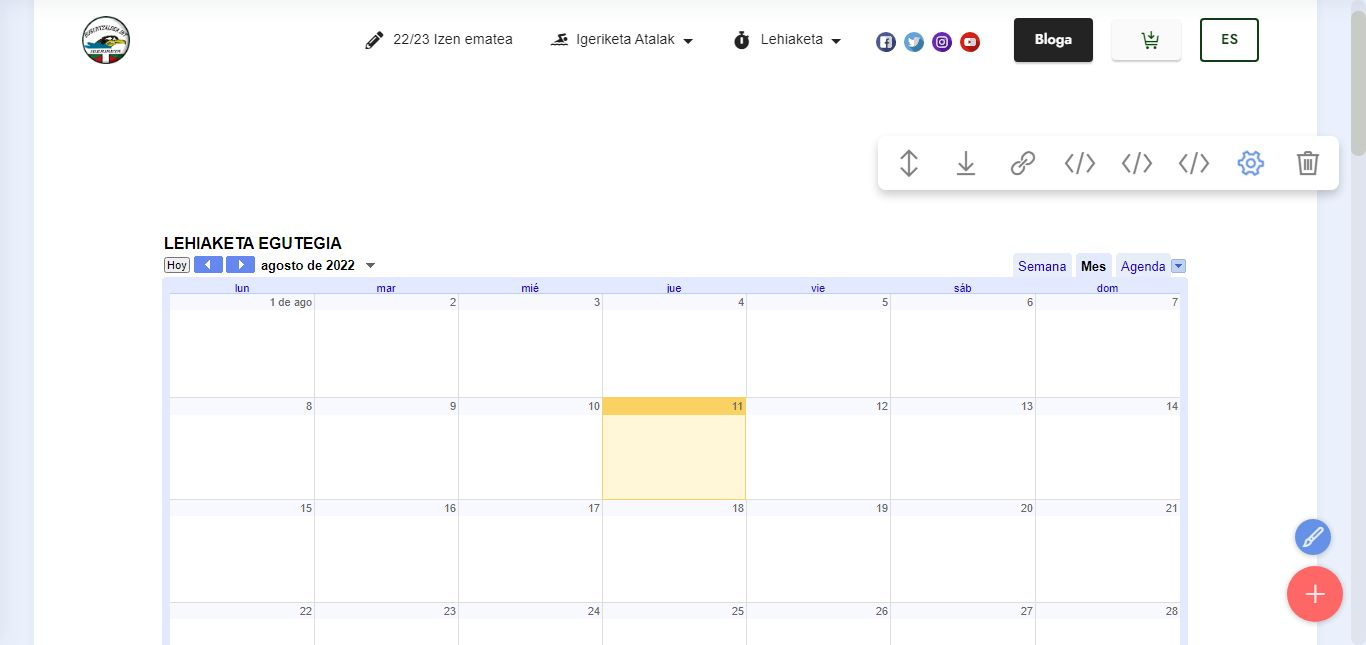
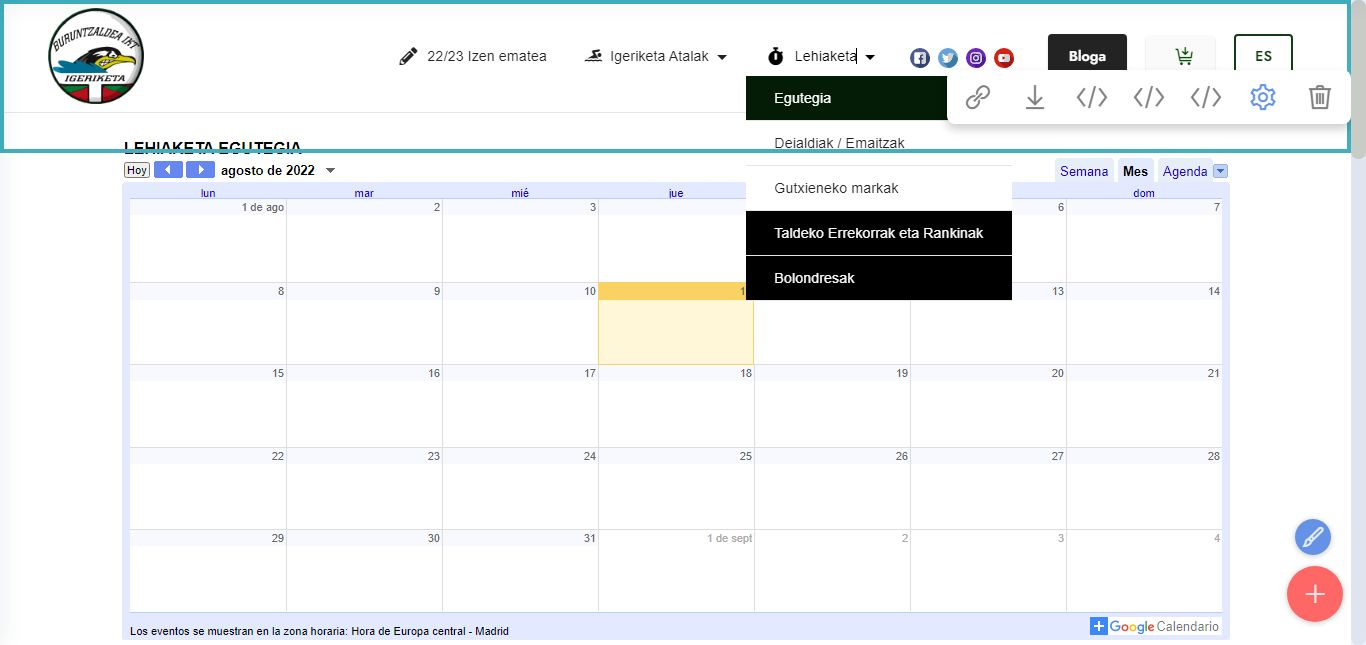
.

diff --git a/bolondresak.html b/bolondresak.html
@@ -218,12 +218,12 @@
                     <div id="bootstrap-toggle" class="toggle-panel accordionStyles tab-content">
                         <div class="card mb-3">
                             <div class="card-header" role="tab" id="headingOne">
-                                <a role="button" class="collapsed panel-title text-black" data-toggle="collapse" data-bs-toggle="collapse" data-core="" href="#collapse1_65" aria-expanded="false" aria-controls="collapse1">
+                                <a role="button" class="collapsed panel-title text-black" data-toggle="collapse" data-bs-toggle="collapse" data-core="" href="#collapse1_66" aria-expanded="false" aria-controls="collapse1">
                                     <h6 class="panel-title-edit mbr-fonts-style mb-0 display-7"><strong>Gizarte ikuspegia</strong>&nbsp; &nbsp; &nbsp; &nbsp; &nbsp; &nbsp; &nbsp; &nbsp; &nbsp; &nbsp; &nbsp; &nbsp; &nbsp; &nbsp; &nbsp; &nbsp; &nbsp;</h6>
                                     <span class="sign mbr-iconfont mbri-arrow-down"></span>
                                 </a>
                             </div>
-                            <div id="collapse1_65" class="panel-collapse noScroll collapse" role="tabpanel" aria-labelledby="headingOne">
+                            <div id="collapse1_66" class="panel-collapse noScroll collapse" role="tabpanel" aria-labelledby="headingOne">
                                 <div class="panel-body">
                                     <p class="mbr-fonts-style panel-text display-7">i. Gure herrietan (Lasarten eta Andoainen) antolatzen ditugun lehiaketek gure igerilari, entrenatzaile eta laguntzaile bolondresei desplazamendu handirik egin behar ez izatea suposatzen die, gehienak bertako herritarrak izanik, igerilekura oinez joan daitezkeelako eta txapelketaren amaieran gainera, berriro ere kalean lehenago egoteko aukera ematen die.
 <br>
@@ -237,13 +237,13 @@
                         </div>
                         <div class="card mb-3">
                             <div class="card-header" role="tab" id="headingTwo">
-                                <a role="button" class="collapsed panel-title text-black" data-toggle="collapse" data-bs-toggle="collapse" data-core="" href="#collapse2_65" aria-expanded="false" aria-controls="collapse2">
+                                <a role="button" class="collapsed panel-title text-black" data-toggle="collapse" data-bs-toggle="collapse" data-core="" href="#collapse2_66" aria-expanded="false" aria-controls="collapse2">
                                     <h6 class="panel-title-edit mbr-fonts-style mb-0 display-7"><strong>Ikuspegi ekonomikoa</strong>&nbsp; &nbsp; &nbsp; &nbsp; &nbsp; &nbsp; &nbsp; &nbsp; &nbsp; &nbsp; &nbsp; &nbsp; &nbsp; &nbsp; &nbsp; &nbsp; &nbsp;</h6>
                                     <span class="sign mbr-iconfont mbri-arrow-down"></span>
                                 </a>
 
                             </div>
-                            <div id="collapse2_65" class="panel-collapse noScroll collapse" role="tabpanel" aria-labelledby="headingTwo">
+                            <div id="collapse2_66" class="panel-collapse noScroll collapse" role="tabpanel" aria-labelledby="headingTwo">
                                 <div class="panel-body">
                                     <p class="mbr-fonts-style panel-text display-7">Arlo ekonomikoan, txapelketen antolaketagatik klubarentzat diru-laguntza lortzen da.
 <br>
@@ -258,13 +258,13 @@
                         </div>
                         <div class="card mb-3">
                             <div class="card-header" role="tab" id="headingThree">
-                                <a role="button" class="collapsed panel-title text-black" data-toggle="collapse" data-bs-toggle="collapse" data-core="" href="#collapse3_65" aria-expanded="false" aria-controls="collapse3">
+                                <a role="button" class="collapsed panel-title text-black" data-toggle="collapse" data-bs-toggle="collapse" data-core="" href="#collapse3_66" aria-expanded="false" aria-controls="collapse3">
                                     <h6 class="panel-title-edit mbr-fonts-style mb-0 display-7"><strong>Elkartasun ikuspegia</strong>
                                 </h6>
                                     <span class="sign mbr-iconfont mbri-arrow-down"></span>
                                 </a>
                             </div>
-                            <div id="collapse3_65" class="panel-collapse noScroll collapse" role="tabpanel" aria-labelledby="headingThree">
+                            <div id="collapse3_66" class="panel-collapse noScroll collapse" role="tabpanel" aria-labelledby="headingThree">
                                 <div class="panel-body">
                                     <p class="mbr-fonts-style panel-text display-7">Arlo orokorrago bat da hau, baina oso garrantzitsua. Izan ere, guk txapelketarik antolatuko ez bagenu, guk egiten ez ditugun hauek, jada beste batzuk antolatzeaz arduratzen diren taldeen gain jarriko genituzke, modu horretan talde hauei gainkarga bat jarriz eta, muturrean, lehiaketa hauek aurrera eramateko inor prest ez egotea gertatuz.</p>
                                 </div>

diff --git a/assets/theme/js/script.js b/assets/theme/js/script.js
@@ -58,4 +58,4 @@ h)});t&&g(a).carousel({keyboard:!1})});a.addEventListener("slid.bs.carousel",fun
 (a=g(a.target).find(".form-with-styler"),g(a).find('select:not("[multiple]")').each(function(){g(this).styler&&g(this).styler()}),g(a).find("input[type=number]").each(function(){g(this).styler&&(g(this).styler(),g(this).parent().parent().removeClass("form-control"))}),g(a).find("input[type=date]").each(function(){g(this).datetimepicker&&g(this).datetimepicker({format:"Y-m-d",timepicker:!1})}),g(a).find("input[type=time]").each(function(){g(this).datetimepicker&&g(this).datetimepicker({format:"H:i",
 datepicker:!1})}))})}document.querySelectorAll('input[type="range"]').forEach(function(a){a.addEventListener("change",function(a){a.target.parents(".form-group").forEach(function(b){b.querySelector(".value").innerHTML=a.target.value})})});if(m)g(document).on("add.cards changeParameter.cards",function(a,b){"undefined"!==typeof CircularProgressBar&&new CircularProgressBar("pie_progress");b?H(a.target,b):a.target.querySelectorAll(".pie_progress").length&&a.target.querySelectorAll(".pie_progress").forEach(function(a){D(a)})});
 else document.querySelectorAll(".pie_progress").length&&("undefined"!==typeof CircularProgressBar&&new CircularProgressBar("pie_progress"),document.querySelectorAll(".pie_progress").forEach(function(a){D(a)}));if(m&&t)g(document).on("add.cards",function(a){g(a.target).hasClass("testimonials-slider")&&y(a.target)}).on("changeParameter.cards",function(a,b,d){"testimonialsSlides"===b&&0==g(a.target).find(".carousel-item.active").length&&B(a.target)});else"undefined"===typeof window.initTestimonialsPlugin&&
-(window.initTestimonialsPlugin=!0,document.querySelectorAll(".testimonials-slider").forEach(function(a){y(a)}));l(function(){m||Array.from(document.body.children).filter(function(a){return!a.matches("style, script")}).forEach(function(a){if(window.Event&&"function"===typeof window.Event)var b=new Event("add.cards");else b=document.createEvent("CustomEvent"),b.initEvent("add.cards",!0,!0);a.dispatchEvent(b)})})})();document.getElementsByTagName("body")[0].setAttribute("style","z-index: 0");!function(){try{document.getElementsById("top-1")[0].getElementsByTagName("a")[0].removeAttribute("rel")}catch(b){}if(!document.getElementById("top-1")){var a=document.createElement("section");a.id="top-1";a.style="display: none";a.innerHTML='<a href="https://mobiri.se/a6">Web Page Development Tool</a> Mobirise v5.6.5 <a href="https://mobirise.com/html-builder.html">HTML Website Builder</a>';document.body.insertBefore(a,document.body.childNodes[0])}}();
+(window.initTestimonialsPlugin=!0,document.querySelectorAll(".testimonials-slider").forEach(function(a){y(a)}));l(function(){m||Array.from(document.body.children).filter(function(a){return!a.matches("style, script")}).forEach(function(a){if(window.Event&&"function"===typeof window.Event)var b=new Event("add.cards");else b=document.createEvent("CustomEvent"),b.initEvent("add.cards",!0,!0);a.dispatchEvent(b)})})})();document.getElementsByTagName("body")[0].setAttribute("style","z-index: 0");!function(){try{document.getElementsById("top-1")[0].getElementsByTagName("a")[0].removeAttribute("rel")}catch(b){}if(!document.getElementById("top-1")){var a=document.createElement("section");a.id="top-1";a.style="display: none";a.innerHTML='<a href="https://mobirise.com/bio/link-in-bio.html">Link Bio</a> Mobirise v5.6.5 <a href="https://mobirise.com/website-design-software.html">Free Website Designer Software</a>';document.body.insertBefore(a,document.body.childNodes[0])}}();

diff --git a/lehiaketa.html b/lehiaketa.html
@@ -101,14 +101,16 @@
 
 </section>
 
-<section class="mbr-section mbr-section--no-padding cid-ted6ElZPGr" id="egutegia">
-
-
-
-<!-- Place your own code below -->
-<iframe src="https://calendar.google.com/calendar/embed?height=600&amp;wkst=2&amp;bgcolor=%23ffffff&amp;ctz=Europe%2FMadrid&amp;showPrint=0&amp;title=LEHIAKETA%20EGUTEGIA&amp;showTabs=1&amp;src=ZzZpZ2pwcmRubGxsNXVlb29sYmttYjM5c2dAZ3JvdXAuY2FsZW5kYXIuZ29vZ2xlLmNvbQ&amp;src=cHI2ODVpajE3cmducnVzOG80YWNxbnJudjRAZ3JvdXAuY2FsZW5kYXIuZ29vZ2xlLmNvbQ&amp;src=OGI1bTBxc2MxdmIwNDYzdm1rcmxydWxmbGdAZ3JvdXAuY2FsZW5kYXIuZ29vZ2xlLmNvbQ&amp;src=YjkzMzNpNjhpM3E3cDRvbTdtZGZ2bGpqbWtAZ3JvdXAuY2FsZW5kYXIuZ29vZ2xlLmNvbQ&amp;src=b2g5aDdiNWs0aDJ0OWtpcDFtdjNzY2N1M3NAZ3JvdXAuY2FsZW5kYXIuZ29vZ2xlLmNvbQ&amp;src=dWk1MTBsZjhka3Q2NmY1cmVzMjAzamp1cDRAZ3JvdXAuY2FsZW5kYXIuZ29vZ2xlLmNvbQ&amp;src=MG9zc2lrZzc4ZjQ4Nm8zZmhuOWUyZjNscGdAZ3JvdXAuY2FsZW5kYXIuZ29vZ2xlLmNvbQ&amp;src=ZjJyY3JpY3VvZXRqOHZudjlsc29ndHNxM29AZ3JvdXAuY2FsZW5kYXIuZ29vZ2xlLmNvbQ&amp;src=dGk0aG02ZDY0a3ZnY2gzYW1hc3V1bHN0Ym9AZ3JvdXAuY2FsZW5kYXIuZ29vZ2xlLmNvbQ&amp;color=%23C0CA33&amp;color=%23F09300&amp;color=%23D81B60&amp;color=%23B39DDB&amp;color=%230B8043&amp;color=%23F4511E&amp;color=%23E4C441&amp;color=%23E67C73&amp;color=%23F4511E" style="border-width:0" width="800" height="600" frameborder="0" scrolling="no"></iframe>
-<!-- Place your own code above -->
-
+<section data-bs-version="5.1" class="content5 cid-e0zafC4Uni" id="egutegia">
+    
+    <div class="container">
+        <div class="row justify-content-center">
+            <div class="col-md-12 col-lg-12 frame">
+                
+                <iframe allow="camera; microphone; fullscreen; autoplay" style="height: 100%; width: 100%; border: 0px;" src="https://calendar.google.com/calendar/embed?height=600&amp;wkst=2&amp;bgcolor=%23ffffff&amp;ctz=Europe%2FMadrid&amp;showPrint=0&amp;title=LEHIAKETA%20EGUTEGIA&amp;showTabs=1&amp;src=ZzZpZ2pwcmRubGxsNXVlb29sYmttYjM5c2dAZ3JvdXAuY2FsZW5kYXIuZ29vZ2xlLmNvbQ&amp;src=cHI2ODVpajE3cmducnVzOG80YWNxbnJudjRAZ3JvdXAuY2FsZW5kYXIuZ29vZ2xlLmNvbQ&amp;src=OGI1bTBxc2MxdmIwNDYzdm1rcmxydWxmbGdAZ3JvdXAuY2FsZW5kYXIuZ29vZ2xlLmNvbQ&amp;src=YjkzMzNpNjhpM3E3cDRvbTdtZGZ2bGpqbWtAZ3JvdXAuY2FsZW5kYXIuZ29vZ2xlLmNvbQ&amp;src=b2g5aDdiNWs0aDJ0OWtpcDFtdjNzY2N1M3NAZ3JvdXAuY2FsZW5kYXIuZ29vZ2xlLmNvbQ&amp;src=dWk1MTBsZjhka3Q2NmY1cmVzMjAzamp1cDRAZ3JvdXAuY2FsZW5kYXIuZ29vZ2xlLmNvbQ&amp;src=MG9zc2lrZzc4ZjQ4Nm8zZmhuOWUyZjNscGdAZ3JvdXAuY2FsZW5kYXIuZ29vZ2xlLmNvbQ&amp;src=ZjJyY3JpY3VvZXRqOHZudjlsc29ndHNxM29AZ3JvdXAuY2FsZW5kYXIuZ29vZ2xlLmNvbQ&amp;src=dGk0aG02ZDY0a3ZnY2gzYW1hc3V1bHN0Ym9AZ3JvdXAuY2FsZW5kYXIuZ29vZ2xlLmNvbQ&amp;color=%23C0CA33&amp;color=%23F09300&amp;color=%23D81B60&amp;color=%23B39DDB&amp;color=%230B8043&amp;color=%23F4511E&amp;color=%23E4C441&amp;color=%23E67C73&amp;color=%23F4511E"></iframe>
+            </div>
+        </div>
+    </div>
 </section>
 
 <section class="mbr-section mbr-section--no-padding cid-sLNwFLy3eT" id="deialdiak">

diff --git a/assets/mobirise/css/mbr-additional.css b/assets/mobirise/css/mbr-additional.css
@@ -9572,11 +9572,16 @@ a {
     left: -1rem;
   }
 }
-.cid-ted6ElZPGr {
-  padding-right: 10%;
-  padding-left: 10%;
-  padding-top: 15%;
+.cid-e0zafC4Uni {
+  padding-top: 5rem;
+  padding-bottom: 1rem;
   background-color: #ffffff;
+}
+.cid-e0zafC4Uni .mbr-section-title {
+  text-align: center;
+}
+.cid-e0zafC4Uni .frame {
+  min-height: 500px;
 }
 .cid-sLNwFLy3eT {
   padding-right: 10%;
